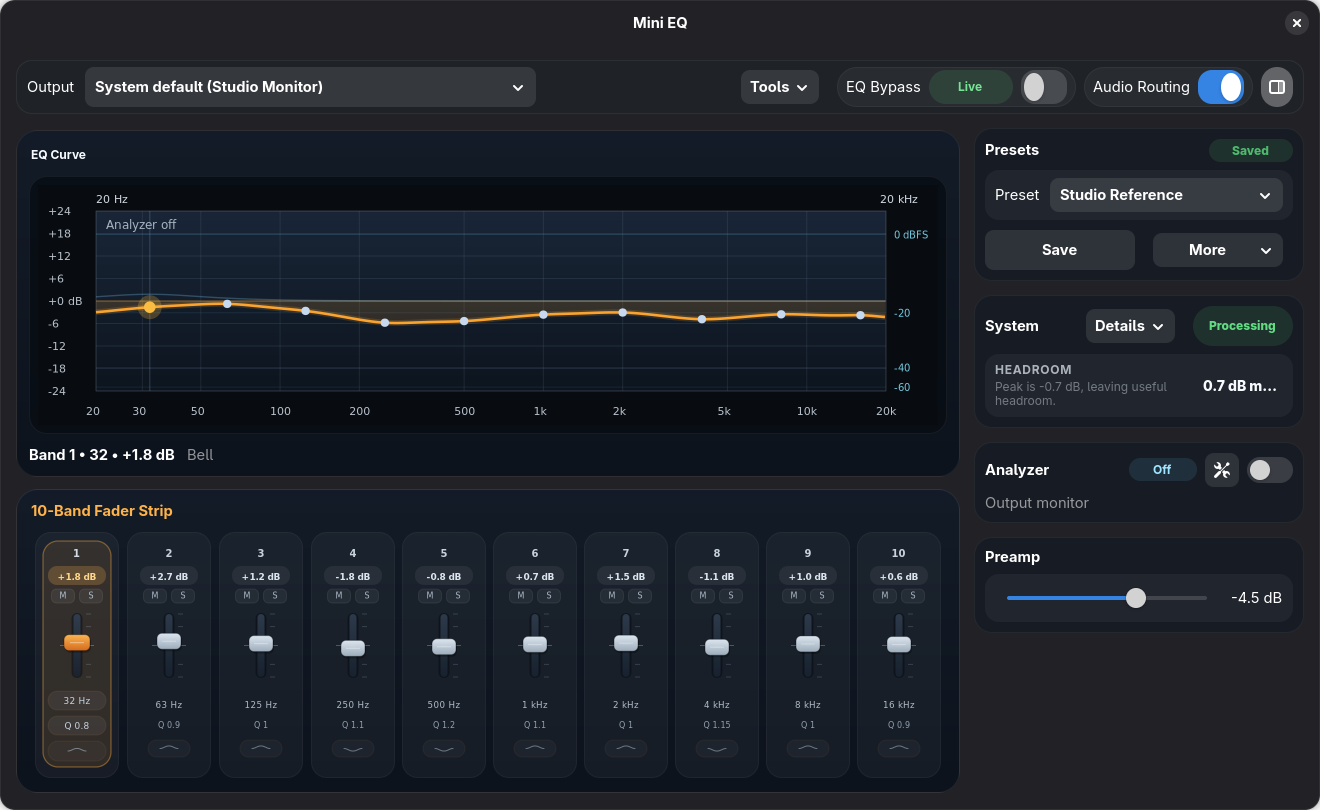
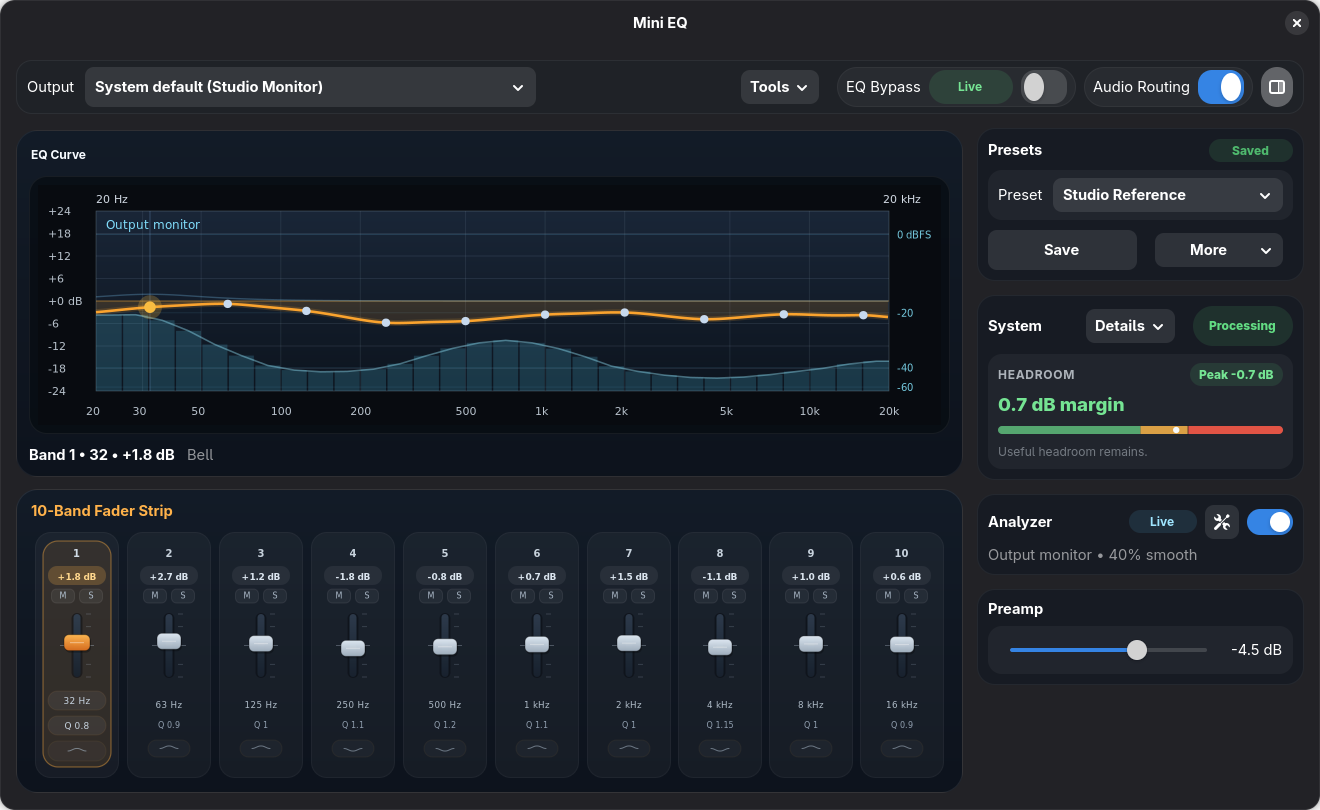
Improve GitHub discoverability

diff --git a/tools/render_demo_screenshot.py b/tools/render_demo_screenshot.py
@@ -8,7 +8,7 @@ import gi
 
 gi.require_version("Adw", "1")
 
-from demo_runtime import DEMO_PRESET_NAME, DemoController
+from demo_runtime import DEMO_PRESET_NAME, DemoController, demo_analyzer_levels
 from gi.repository import Adw, GLib
 
 from mini_eq import core
@@ -41,6 +41,10 @@ class DemoScreenshotApplication(Adw.Application):
         self.window = MiniEqWindow(self, self.controller, auto_route=True)
         self.window.current_preset_name = DEMO_PRESET_NAME
         self.window.saved_preset_signature = self.controller.state_signature()
+        self.window.analyzer_enabled = True
+        self.window.analyzer_display_gain_db = 24.0
+        self.window.analyzer_levels = demo_analyzer_levels()
+        self.window.sync_ui_from_state()
         self.window.refresh_preset_list()
         self.window.set_visible(True)
         self.window.present()
@@ -48,6 +52,16 @@ class DemoScreenshotApplication(Adw.Application):
         GLib.timeout_add(self.delay_ms, self.on_capture_timeout)
 
     def on_capture_timeout(self) -> bool:
+        if self.window is None:
+            raise RuntimeError("window is not available")
+
+        self.window.analyzer_enabled = True
+        self.window.analyzer_levels = demo_analyzer_levels()
+        self.window.queue_analyzer_draw(force=True)
+        GLib.timeout_add(120, self.on_capture_ready_timeout)
+        return False
+
+    def on_capture_ready_timeout(self) -> bool:
         if self.window is None:
             raise RuntimeError("window is not available")
 

diff --git a/tools/demo_runtime.py b/tools/demo_runtime.py
@@ -1,8 +1,10 @@
 from __future__ import annotations
 
 import json
+import math
 
 from mini_eq import core
+from mini_eq.analyzer import ANALYZER_BIN_COUNT
 from mini_eq.core import EQ_MODES, FILTER_TYPES, PRESET_VERSION, EqBand, eq_band_to_dict
 from mini_eq.wireplumber_backend import WirePlumberNode
 
@@ -10,6 +12,16 @@ DEMO_PRESET_NAME = "Studio Reference"
 DEMO_OUTPUT_NAME = "studio-monitor"
 DEMO_OUTPUT_LABEL = "Studio Monitor"
 DEMO_VIRTUAL_SINK_LABEL = "Mini EQ"
+
+
+def demo_analyzer_levels(count: int = ANALYZER_BIN_COUNT) -> list[float]:
+    levels: list[float] = []
+    for index in range(count):
+        phase = (index / max(count - 1, 1)) * math.pi * 4.0
+        envelope = 0.58 + (0.34 * (0.5 + 0.5 * math.sin(phase + 1.2)))
+        tilt = 1.0 - (index / max(count - 1, 1)) * 0.30
+        levels.append(max(0.08, envelope * tilt))
+    return levels
 
 
 class DemoController:
@@ -118,8 +130,9 @@ class DemoController:
     def set_analyzer_levels_callback(self, callback) -> None:
         self.analyzer_levels_callback = callback
 
-    def set_analyzer_enabled(self, enabled: bool) -> None:
+    def set_analyzer_enabled(self, enabled: bool) -> bool:
         self.analyzer_enabled = enabled
+        return True
 
     def route_system_audio(self, enabled: bool) -> None:
         self.route_enabled = enabled

diff --git a/README.md b/README.md
@@ -1,11 +1,32 @@
 # Mini EQ
 
+[![PyPI](https://img.shields.io/pypi/v/mini-eq.svg)](https://pypi.org/project/mini-eq/)
+[![GitHub release](https://img.shields.io/github/v/release/bhack/mini-eq?sort=semver)](https://github.com/bhack/mini-eq/releases)
+[![License](https://img.shields.io/github/license/bhack/mini-eq.svg)](LICENSE)
+
 Mini EQ is a small system-wide parametric equalizer for PipeWire desktops.
 It uses GTK/Libadwaita for the UI, WirePlumber for routing/default-output
 control, PipeWire filter-chain with builtin biquad filters for the equalizer,
 and the JACK API on PipeWire plus NumPy FFT analysis for the analyzer.
 
+![Mini EQ screenshot](https://raw.githubusercontent.com/bhack/mini-eq/main/docs/screenshots/mini-eq.png)
+
+## Features
+
+- System-wide parametric EQ for PipeWire desktop playback.
+- GTK/Libadwaita interface with a compact 10-band fader workflow.
+- WirePlumber routing and default-output tracking.
+- PipeWire filter-chain DSP using builtin biquad filters.
+- Optional spectrum analyzer through the PipeWire JACK compatibility layer.
+- Equalizer APO preset import from the UI or `--import-apo`.
+
 ## Install
+
+Recommended install paths:
+
+1. Flathub once accepted. This will be the preferred desktop install path.
+2. PyPI, after the system desktop/audio dependencies below are installed.
+3. Source checkout, for development or testing unreleased changes.
 
 Mini EQ depends on system desktop/audio packages that are not installed by
 Python packaging: GTK4/Libadwaita 1.4+ GI bindings, WirePlumber introspection,
@@ -83,10 +104,6 @@ Install the desktop launcher and icon for the current user:
 ```bash
 mini-eq --install-desktop
 ```
-
-## Screenshot
-
-![Mini EQ screenshot](https://raw.githubusercontent.com/bhack/mini-eq/main/docs/screenshots/mini-eq.png)
 
 ## Test
 
